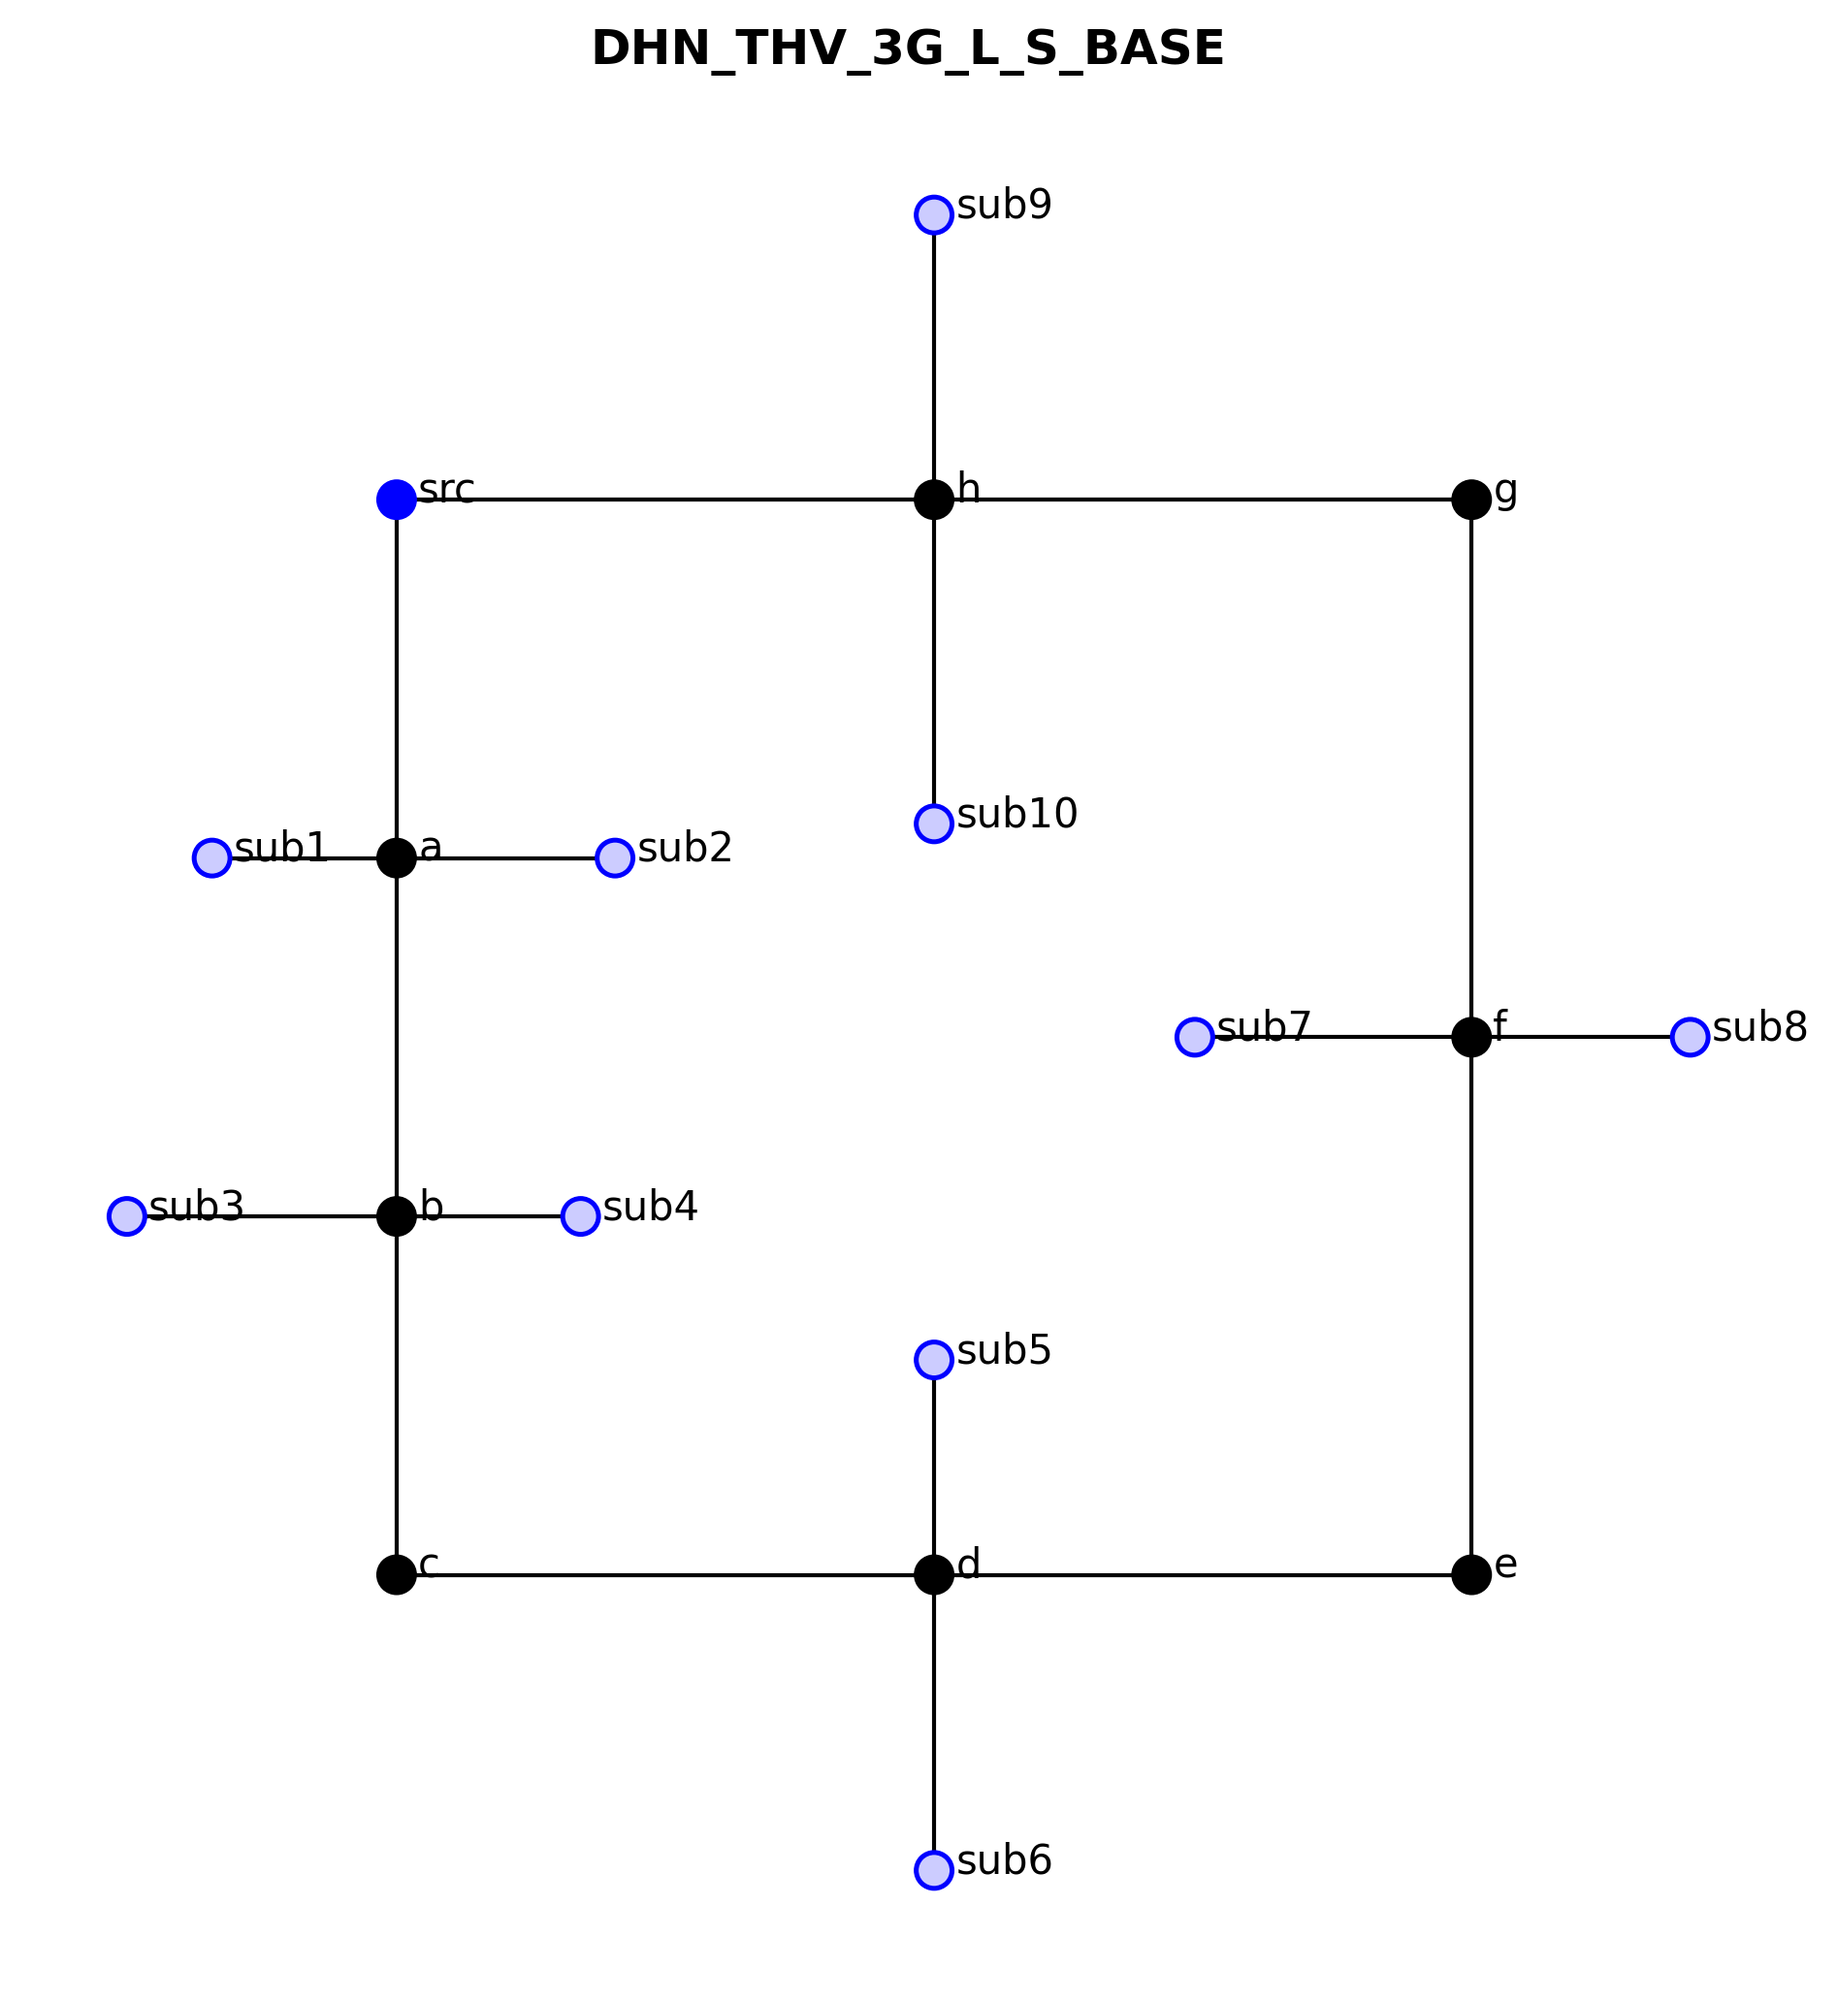
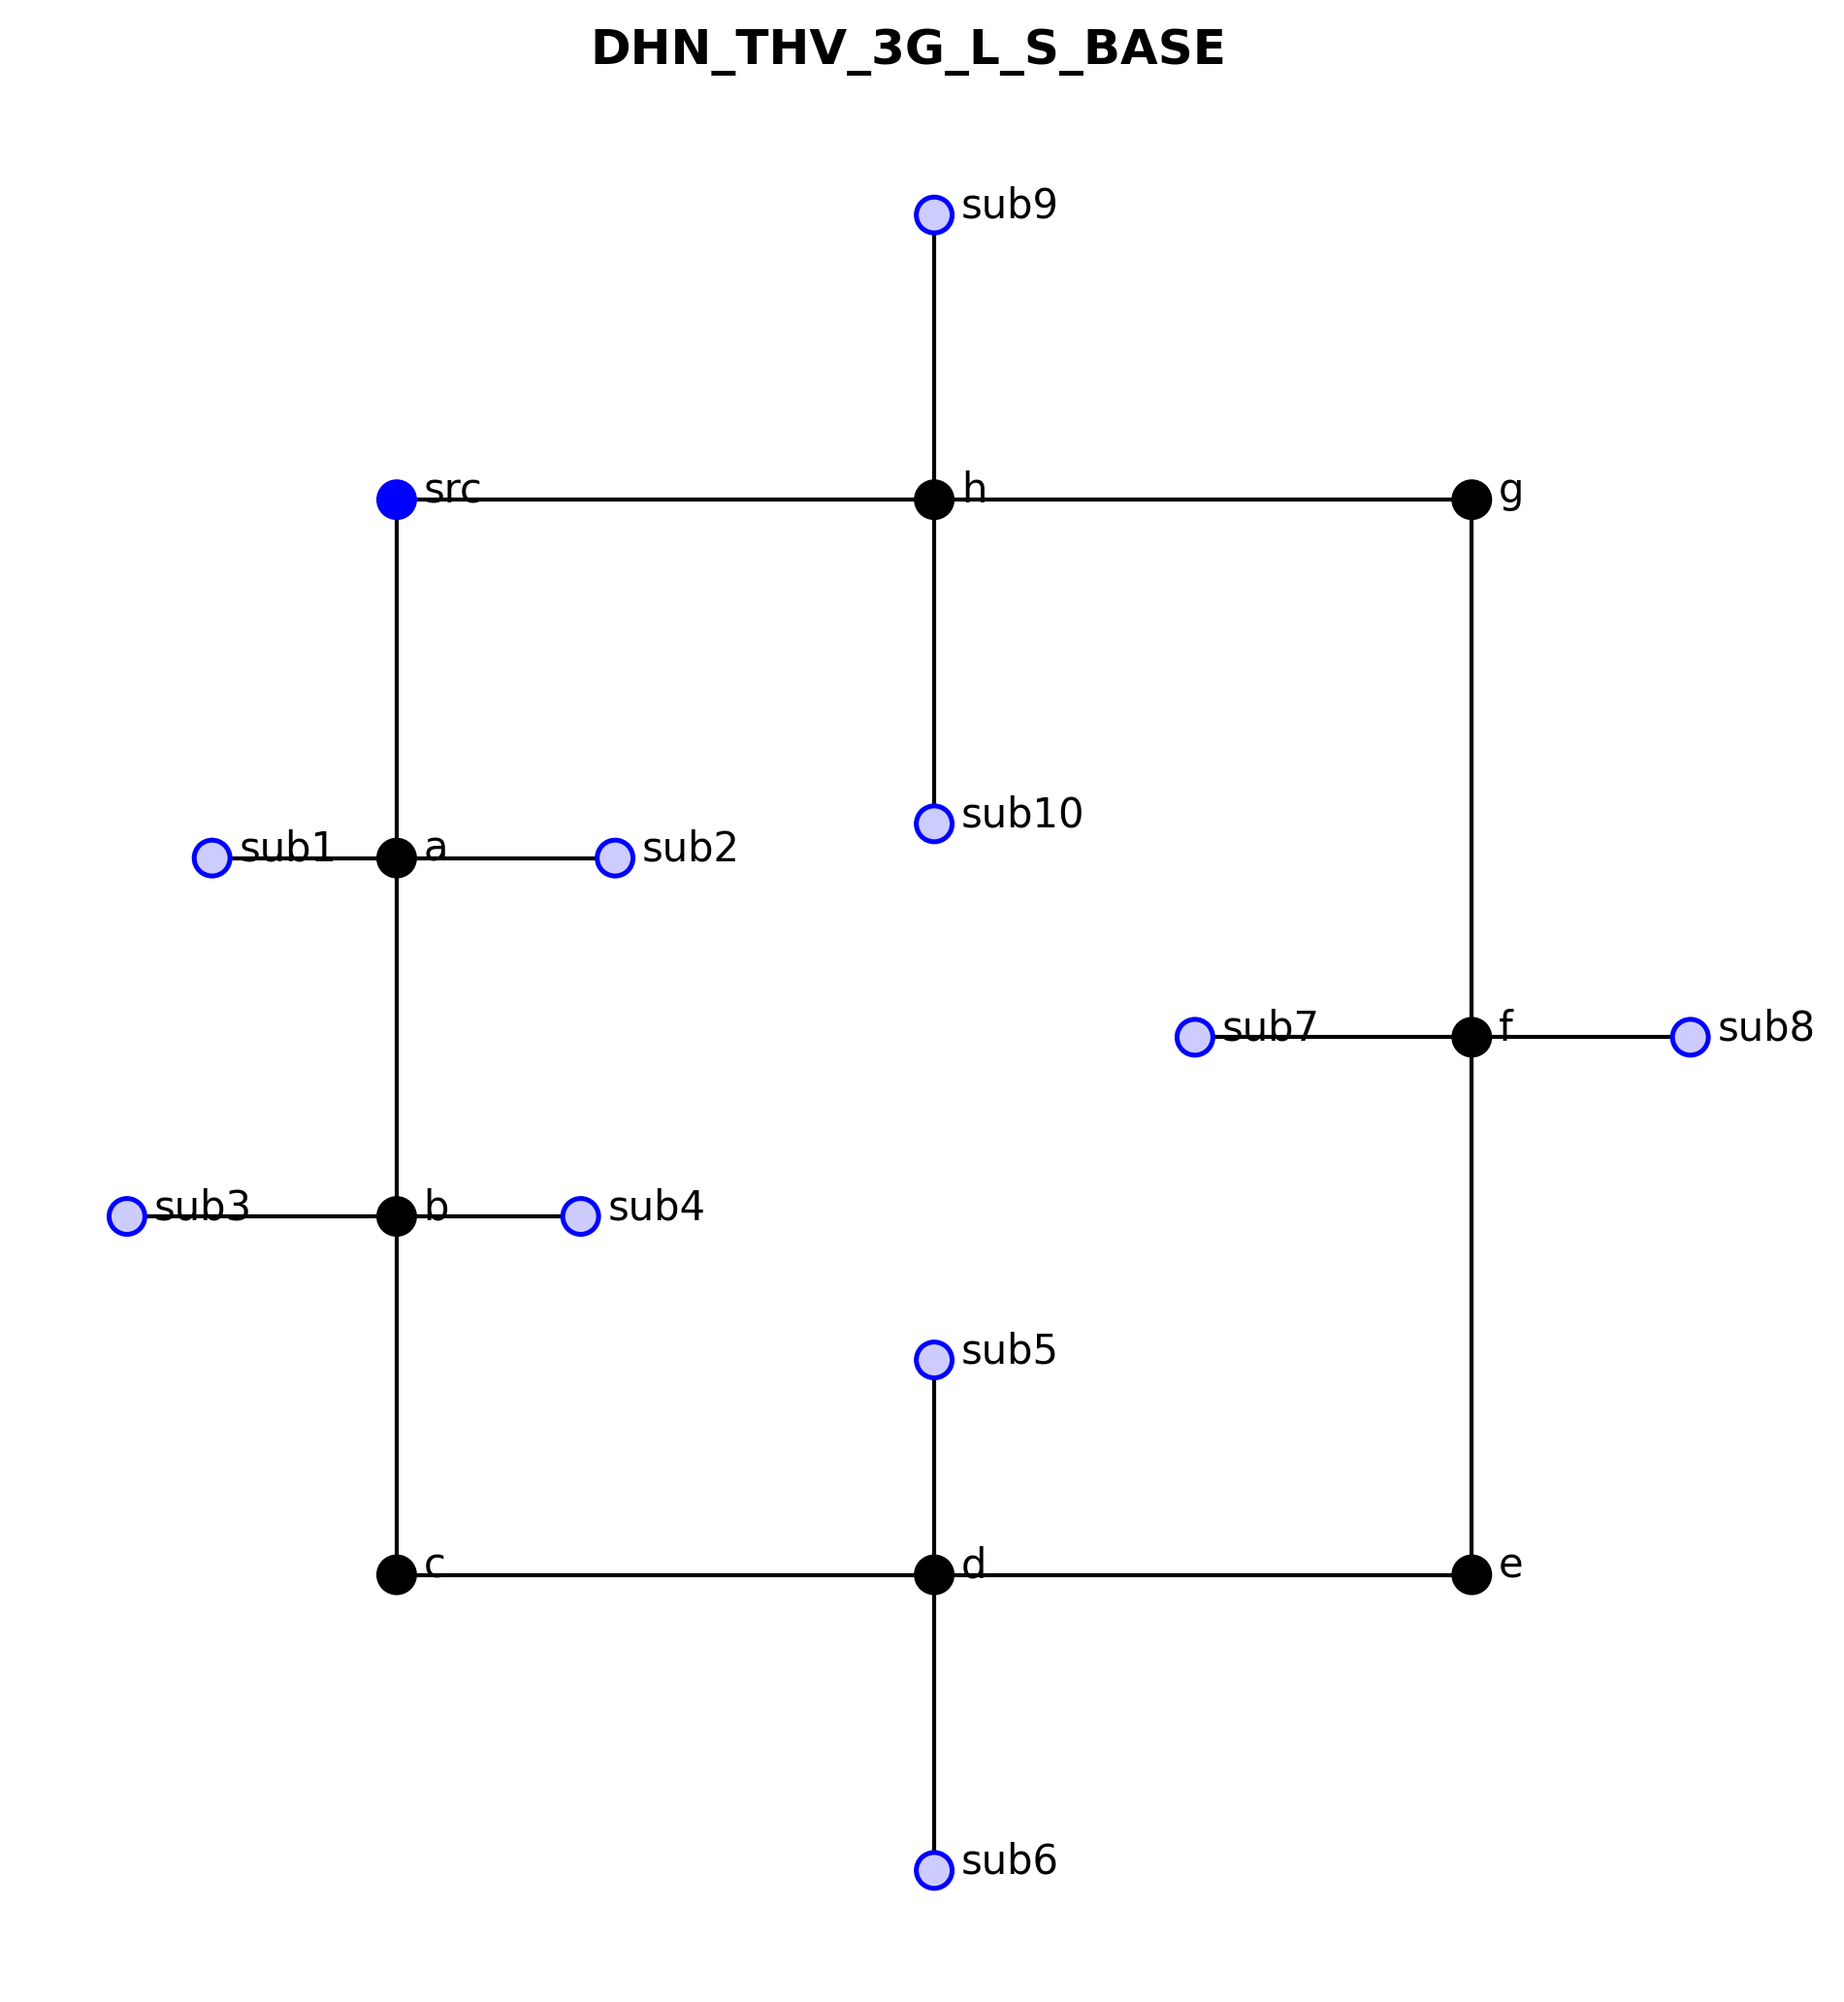
Archetypes implementation

diff --git a/dhn_benchmark/networks/DHN_THV_3G_L_S_BASE.py b/dhn_benchmark/networks/DHN_THV_3G_L_S_BASE.py
@@ -203,8 +203,6 @@ def select_dn(Q_w):
     return dn, di, do, dc, s
 
 
-# For ring topology: use total network load / 2 for ring pipes (flow splits)
-# and individual substation load for radial branches
 Q_total = n_sub * Q_PEAK_W * HEAT_LOSS_FACTOR
 
 PIPE_SIZING = {}
@@ -222,7 +220,7 @@ for u, v in EDGES:
     # - ring pipes carry approx half the total load (flow splits at src)
     # - radial branches carry 1 substation load
     # - src→sub branches carry 1 substation load
-    if (u, v) in [("src","a"), ("src","b"), ("b","src")]:
+    if (u, v) in [("src","a"), ("src","h"), ("h","src")]:
         Q = round(Q_total / 2, 1)
     elif (u, v) in [("a","c"), ("c","d"), ("d","b")]:
         Q = round(Q_total / 2, 1)

diff --git a/dhn_benchmark/plotting.py b/dhn_benchmark/plotting.py
@@ -78,7 +78,7 @@ def plot_topology(nodes, edges, title="DHN_Network",
         if label_offsets and nid in label_offsets:
             dx, dy, ha, va = label_offsets[nid]
         else:
-            dx, dy, ha, va = r + 2, 5, "left", "center"
+            dx, dy, ha, va = r + 5, 5, "left", "center"
         ax.text(
             x + dx, -y + dy, nid,
             ha=ha, va=va,
